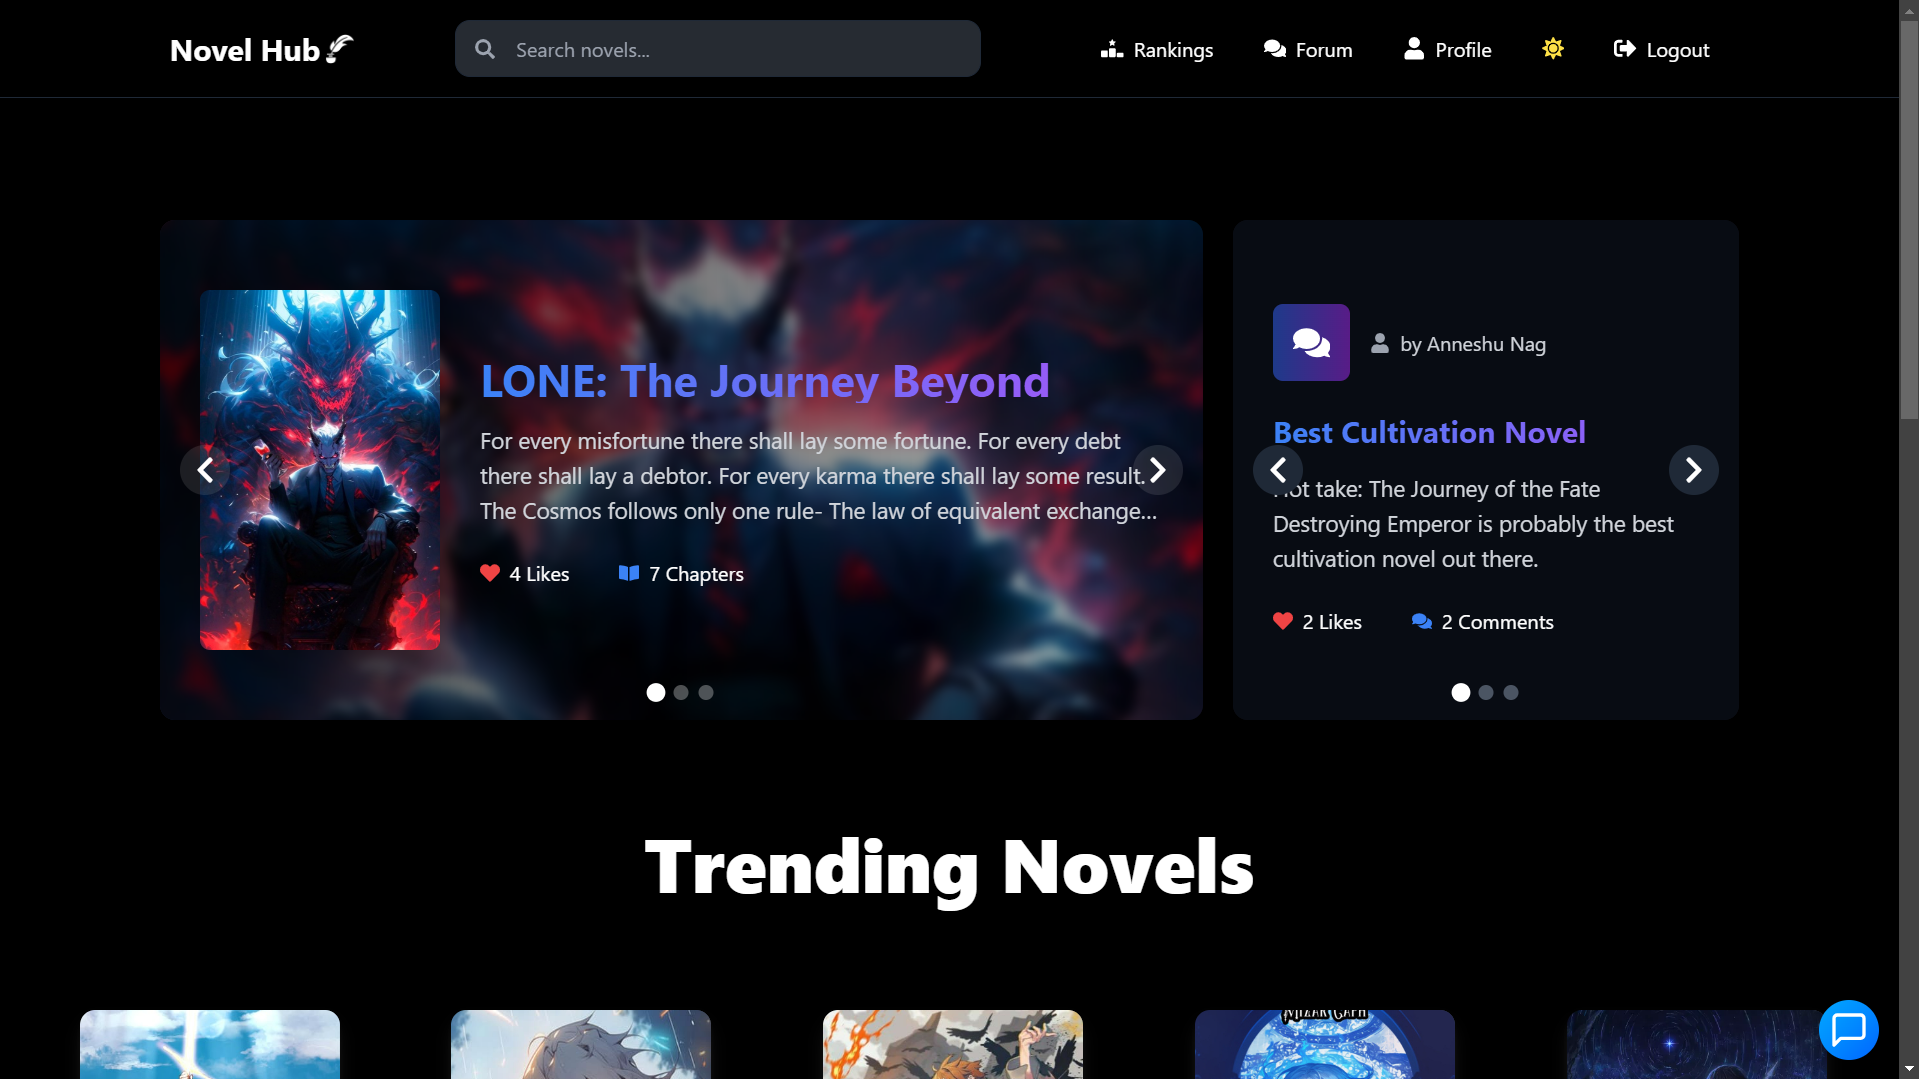
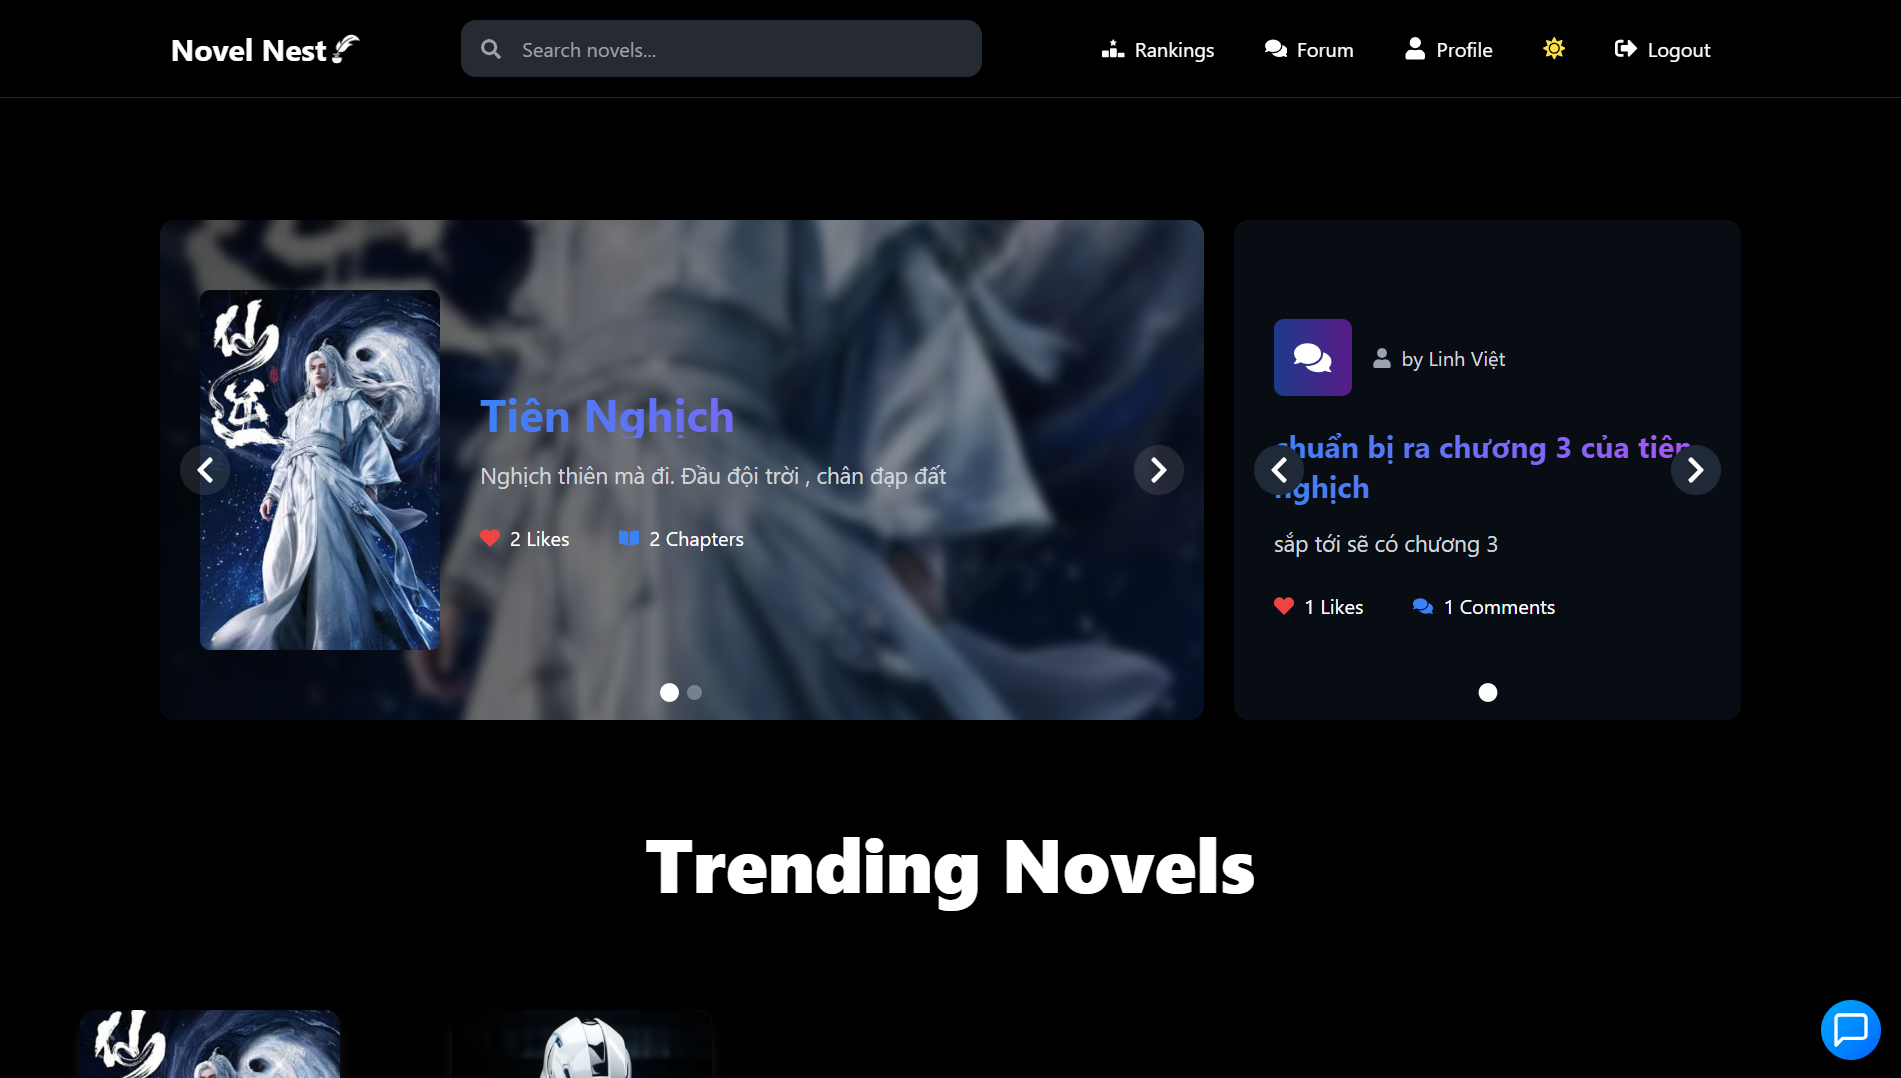
sửa giao diện

diff --git a/frontend/src/components/Navbar.jsx b/frontend/src/components/Navbar.jsx
@@ -85,24 +85,22 @@ const Navbar = () => {
 
   return (
     <nav
-      className={`fixed top-0 left-0 w-full z-50 ${
-        isDarkMode
+      className={`fixed top-0 left-0 w-full z-50 ${isDarkMode
           ? "bg-black/100 backdrop-blur-md shadow-lg border-b border-gray-800"
           : "bg-white/80 backdrop-blur-md shadow-lg"
-      }`}
+        }`}
     >
       <div className="max-w-7xl mx-auto">
         <div className="flex items-center justify-between py-4 px-4 gap-20">
           <Link
             to="/home"
-            className={`flex items-center space-x-2 ${
-              isDarkMode
+            className={`flex items-center space-x-2 ${isDarkMode
                 ? "text-white hover:text-white"
                 : "text-black hover:text-black"
-            } transition-colors duration-300`}
+              } transition-colors duration-300`}
           >
             <span className="text-2xl font-bold flex items-center space-x-1">
-              <span>Novel Hub</span>
+              <span>Novel Nest</span>
               <img
                 src={
                   isDarkMode
@@ -123,11 +121,10 @@ const Navbar = () => {
               <input
                 type="text"
                 placeholder="Search novels..."
-                className={`w-full py-2.5 pl-12 pr-4 rounded-xl border ${
-                  isDarkMode
+                className={`w-full py-2.5 pl-12 pr-4 rounded-xl border ${isDarkMode
                     ? "bg-gray-600/50 border-gray-800 text-white placeholder-gray-400 focus:border-blue-500"
                     : "border-gray-200 bg-gray-50/50 focus:border-blue-500"
-                } focus:ring-2 focus:ring-blue-200 transition-all duration-300`}
+                  } focus:ring-2 focus:ring-blue-200 transition-all duration-300`}
                 value={searchQuery}
                 onChange={(e) => {
                   setSearchQuery(e.target.value);
@@ -141,11 +138,10 @@ const Navbar = () => {
               {/* Suggestions Dropdown */}
               {showSuggestions && searchQuery.trim().length >= 2 && (
                 <div
-                  className={`absolute mt-2 w-full rounded-xl shadow-xl border overflow-hidden ${
-                    isDarkMode
+                  className={`absolute mt-2 w-full rounded-xl shadow-xl border overflow-hidden ${isDarkMode
                       ? "bg-black/100 border-gray-800"
                       : "bg-white border-gray-100"
-                  } max-h-96 overflow-y-auto z-50`}
+                    } max-h-96 overflow-y-auto z-50`}
                 >
                   {isLoading ? (
                     <div className="p-4 text-center text-gray-500">
@@ -155,9 +151,8 @@ const Navbar = () => {
                     suggestions.map((novel) => (
                       <div
                         key={novel._id}
-                        className={`flex items-center gap-4 p-3 cursor-pointer transition-all duration-300 ${
-                          isDarkMode ? "hover:bg-gray-700" : "hover:bg-gray-50"
-                        }`}
+                        className={`flex items-center gap-4 p-3 cursor-pointer transition-all duration-300 ${isDarkMode ? "hover:bg-gray-700" : "hover:bg-gray-50"
+                          }`}
                         onClick={() => handleSuggestionClick(novel)}
                       >
                         <img
@@ -167,16 +162,14 @@ const Navbar = () => {
                         />
                         <div className="flex-1 min-w-0">
                           <h3
-                            className={`text-sm font-semibold truncate ${
-                              isDarkMode ? "text-white" : "text-gray-800"
-                            }`}
+                            className={`text-sm font-semibold truncate ${isDarkMode ? "text-white" : "text-gray-800"
+                              }`}
                           >
                             {novel.title}
                           </h3>
                           <p
-                            className={`text-xs truncate mt-1 ${
-                              isDarkMode ? "text-gray-400" : "text-gray-500"
-                            }`}
+                            className={`text-xs truncate mt-1 ${isDarkMode ? "text-gray-400" : "text-gray-500"
+                              }`}
                           >
                             {novel.description}
                           </p>
@@ -185,9 +178,8 @@ const Navbar = () => {
                     ))
                   ) : (
                     <div
-                      className={`p-4 text-center ${
-                        isDarkMode ? "text-gray-400" : "text-gray-500"
-                      }`}
+                      className={`p-4 text-center ${isDarkMode ? "text-gray-400" : "text-gray-500"
+                        }`}
                     >
                       No suggestions found
                     </div>
@@ -201,22 +193,20 @@ const Navbar = () => {
           <div className="hidden md:flex items-center gap-2">
             <button
               onClick={() => navigate("/rankings")}
-              className={`flex items-center gap-2 px-4 py-2 rounded-lg transition-all duration-300 ${
-                isDarkMode
+              className={`flex items-center gap-2 px-4 py-2 rounded-lg transition-all duration-300 ${isDarkMode
                   ? "text-white bg-black/100 hover:bg-gray-800"
                   : "text-gray-700 bg-white/80 hover:bg-gray-100"
-              }`}
+                }`}
             >
               <FaRankingStar className={"text-lg"} />
               <span>Rankings</span>
             </button>
             <button
               onClick={() => navigate("/forum")}
-              className={`flex items-center gap-2 px-4 py-2 rounded-lg transition-all duration-300 ${
-                isDarkMode
+              className={`flex items-center gap-2 px-4 py-2 rounded-lg transition-all duration-300 ${isDarkMode
                   ? "text-white bg-black/100 hover:bg-gray-800"
                   : "text-gray-700 bg-white/80 hover:bg-gray-100"
-              }`}
+                }`}
             >
               <FaComments className="text-lg" />
               <span>Forum</span>
@@ -225,11 +215,10 @@ const Navbar = () => {
             {isAuthenticated() && (
               <button
                 onClick={() => navigate("/profile")}
-                className={`flex items-center gap-2 px-4 py-2 rounded-lg transition-all duration-300 ${
-                  isDarkMode
+                className={`flex items-center gap-2 px-4 py-2 rounded-lg transition-all duration-300 ${isDarkMode
                     ? "text-white bg-black/100 hover:bg-gray-800"
                     : "text-gray-700 bg-white/80 hover:bg-gray-100"
-                }`}
+                  }`}
               >
                 <FaUser className="text-lg" />
                 <span>Profile</span>
@@ -238,11 +227,10 @@ const Navbar = () => {
 
             <button
               onClick={toggleDarkMode}
-              className={`flex items-center gap-2 px-4 py-2 rounded-lg transition-all duration-300 ${
-                isDarkMode
+              className={`flex items-center gap-2 px-4 py-2 rounded-lg transition-all duration-300 ${isDarkMode
                   ? "text-yellow-300 hover:bg-yellow-500/20"
                   : "text-gray-700 hover:bg-yellow-100"
-              }`}
+                }`}
             >
               {isDarkMode ? (
                 <FaSun className="text-lg" />
@@ -255,11 +243,10 @@ const Navbar = () => {
               onClick={
                 isAuthenticated() ? handleLogout : () => navigate("/login")
               }
-              className={`flex items-center gap-2 px-4 py-2 rounded-lg transition-all duration-300 ${
-                isDarkMode
+              className={`flex items-center gap-2 px-4 py-2 rounded-lg transition-all duration-300 ${isDarkMode
                   ? "text-white hover:bg-gradient-to-r hover:from-red-600 hover:to-pink-600"
                   : "text-gray-700 hover:bg-gradient-to-r hover:from-red-500 hover:to-pink-500"
-              } hover:text-white`}
+                } hover:text-white`}
             >
               <FaSignOutAlt className="text-lg" />
               <span>{isAuthenticated() ? "Logout" : "Login"}</span>
@@ -285,20 +272,18 @@ const Navbar = () => {
       {/* Mobile Menu */}
       {isMobileMenuOpen && (
         <div
-          className={`md:hidden ${
-            isDarkMode ? "bg-black" : "bg-white"
-          } border-t ${isDarkMode ? "border-gray-800" : "border-gray-200"}`}
+          className={`md:hidden ${isDarkMode ? "bg-black" : "bg-white"
+            } border-t ${isDarkMode ? "border-gray-800" : "border-gray-200"}`}
         >
           <div className="p-4">
             <div className="relative">
               <input
                 type="text"
                 placeholder="Search novels..."
-                className={`w-full py-2 pl-10 pr-4 rounded-lg border ${
-                  isDarkMode
+                className={`w-full py-2 pl-10 pr-4 rounded-lg border ${isDarkMode
                     ? "bg-gray-800 border-gray-800 text-white placeholder-gray-400"
                     : "bg-gray-50 border-gray-200"
-                } focus:ring-2 focus:ring-blue-500 focus:border-transparent`}
+                  } focus:ring-2 focus:ring-blue-500 focus:border-transparent`}
                 value={searchQuery}
                 onChange={(e) => setSearchQuery(e.target.value)}
                 onKeyDown={handleKeyPress}

diff --git a/frontend/src/utils/Footer.jsx b/frontend/src/utils/Footer.jsx
@@ -7,12 +7,12 @@ const Footer = () => {
   return (
     <footer className="bg-gradient-to-br from-white via-white to-gray-200 text-black dark:bg-gradient-to-br dark:from-black dark:via-black-800 dark:to-gray-900 dark:text-white relative">
       {/* <div className="h-1 bg-gradient-to-r from-blue-500 via-purple-500 to-pink-500"></div> */}
-      
+
       <div className="max-w-7xl mx-auto px-4 py-16">
         <div className="grid grid-cols-1 md:grid-cols-2 lg:grid-cols-4 gap-12 md:gap-8">
           <div className="space-y-6">
             <h2 className="text-3xl font-bold dark:bg-gradient-to-r dark:from-blue-400 dark:via-purple-400 dark:to-white dark:bg-clip-text dark:text-transparent transform hover:scale-105 transition-transform duration-300">
-              Novel Hub
+              Novel Nest
             </h2>
             <p className="text-gray-600 text-sm leading-relaxed dark:text-gray-400">
               Your gateway to endless stories. Discover, read, and create captivating novels in our growing community.
@@ -115,8 +115,8 @@ const Footer = () => {
             </div>
           </div>
 
-                   {/* Newsletter */}
-         <div className="space-y-4">
+          {/* Newsletter */}
+          <div className="space-y-4">
             <h3 className="text-xl font-semibold relative inline-block">
               Stay Updated
               <span className="absolute bottom-0 left-0 w-1/2 h-0.5 bg-gradient-to-r from-pink-500 to-transparent"></span>
@@ -125,7 +125,7 @@ const Footer = () => {
               Subscribe to our newsletter for the latest updates and featured stories.
             </p>
             <div className="flex flex-col space-y-2">
- {/*}             <input
+              {/*}             <input
                 type="email"
                 placeholder="Enter your email"
                 className="bg-gray-800/50 text-white px-4 py-3 rounded-md focus:outline-none focus:ring-2 focus:ring-blue-500 transition-all duration-300 placeholder-gray-500"
@@ -144,7 +144,7 @@ const Footer = () => {
         <div className="border-t border-gray-200 mt-16 pt-8 dark:border-gray-800">
           <div className="flex flex-col md:flex-row justify-between items-center space-y-4 md:space-y-0">
             <p className="text-gray-600 dark:text-gray-400 text-sm">
-              &copy; {currentYear} Novel Hub. All rights reserved. Made with ❤ by NK
+              &copy; {currentYear} Novel Nest. All rights reserved. Made with ❤ by Nhom 19 TKW
             </p>
             <div className="flex flex-wrap justify-center gap-6">
               <Link to="/privacy" className="text-gray-600 dark:text-gray-400 hover:text-blue-500 dark:hover:text-white text-sm transition-colors duration-300">

diff --git a/frontend/index.html b/frontend/index.html
@@ -1,13 +1,16 @@
 <!doctype html>
 <html lang="en">
-  <head>
-    <meta charset="UTF-8" />
-    <link rel="icon" type="image/png" href="/ink-logo-light.png" />
-    <meta name="viewport" content="width=device-width, initial-scale=1.0" />
-    <title>Novel Hub</title>
-  </head>
-  <body>
-    <div id="root"></div>
-    <script type="module" src="/src/main.jsx"></script>
-  </body>
+
+<head>
+  <meta charset="UTF-8" />
+  <link rel="icon" type="image/png" href="/ink-logo-light.png" />
+  <meta name="viewport" content="width=device-width, initial-scale=1.0" />
+  <title>Novel Nest</title>
+</head>
+
+<body>
+  <div id="root"></div>
+  <script type="module" src="/src/main.jsx"></script>
+</body>
+
 </html>
